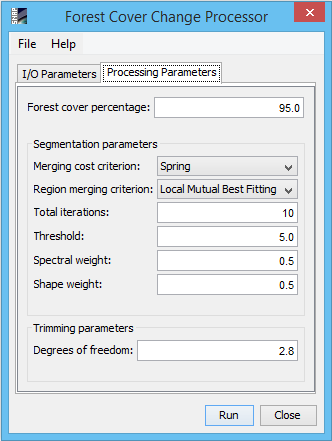
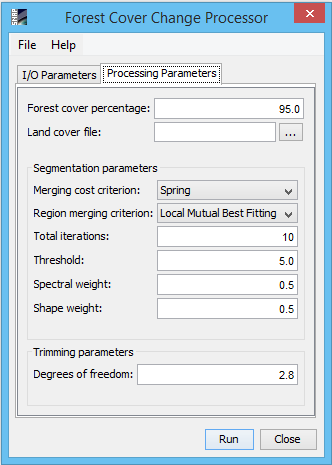
Updated forest cover change ui module with modifications to the help and constants

diff --git a/s2tbx-forest-cover-change-ui/src/main/resources/org/esa/s2tbx/fcc/docs/ForestCoverChangeProcessor.html b/s2tbx-forest-cover-change-ui/src/main/resources/org/esa/s2tbx/fcc/docs/ForestCoverChangeProcessor.html
@@ -159,6 +159,11 @@
                 object that are marked as forest in the CCI Land Cover map.
             </p>
             <p class="i1">
+                <b>Land cover file:</b>
+                Specify the path to a new land cover map different than the default one (CCI Land Cover 2015). If no path is specified than the default land
+                cover map is used.
+            </p>
+            <p class="i1">
                 <b>Merging cost criterion:</b>
                 Specify the type to compute the cost between adjacent segments. The merging costs are based on a homogeneity criterion and can represent
                 not only how two similar segmentss are but also how homogeneous the resulting larger segment would be.

diff --git a/s2tbx-forest-cover-change/src/main/java/org/esa/s2tbx/fcc/common/ForestCoverChangeConstants.java b/s2tbx-forest-cover-change/src/main/java/org/esa/s2tbx/fcc/common/ForestCoverChangeConstants.java
@@ -16,7 +16,6 @@ public class ForestCoverChangeConstants {
     public static final float CONFIDENCE_LEVEL_90 = 0.9f;
     public static final float CONFIDENCE_LEVEL_95 = 0.95f;
     public static final float CONFIDENCE_LEVEL_99 = 0.99f;
-    public static final double DEGREES_OF_FREEDOM = 2.8;
     public static final float MINIMUM_SPECTRAL_WAVE_LENGTH_RED_BAND = 630.0f;
     public static final float MAXIMUM_SPECTRAL_WAVE_LENGTH_RED_BAND = 690.0f;
     public static final float MINIMUM_SPECTRAL_WAVE_LENGTH_NIR_BAND = 760.0f;
